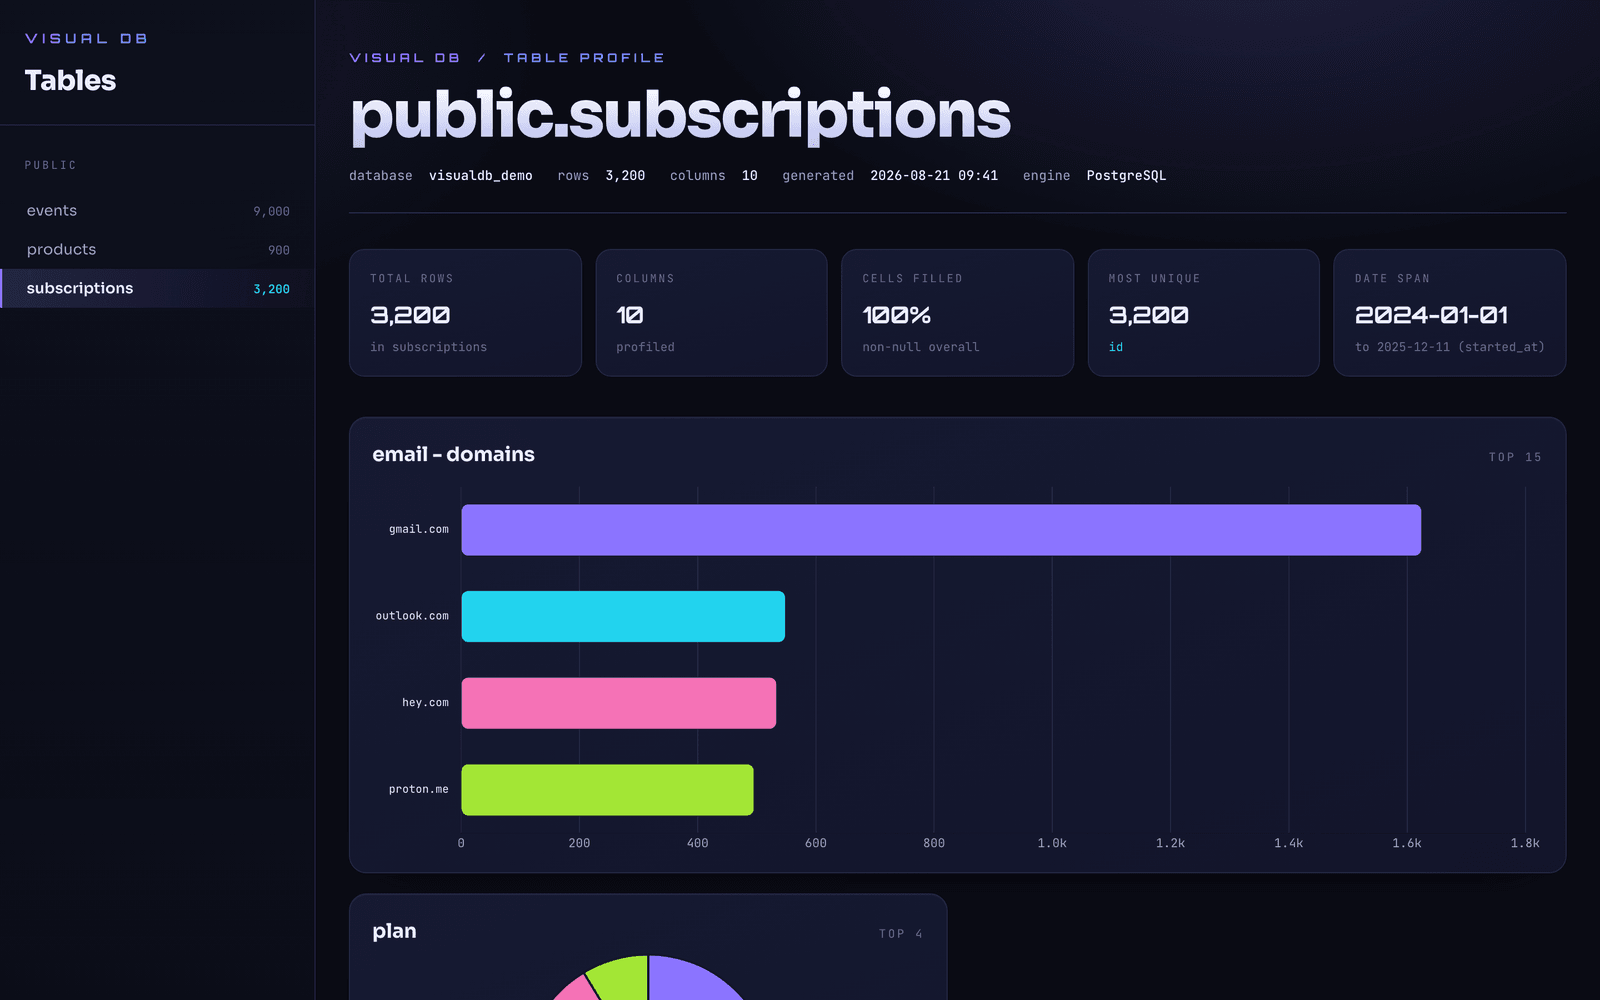
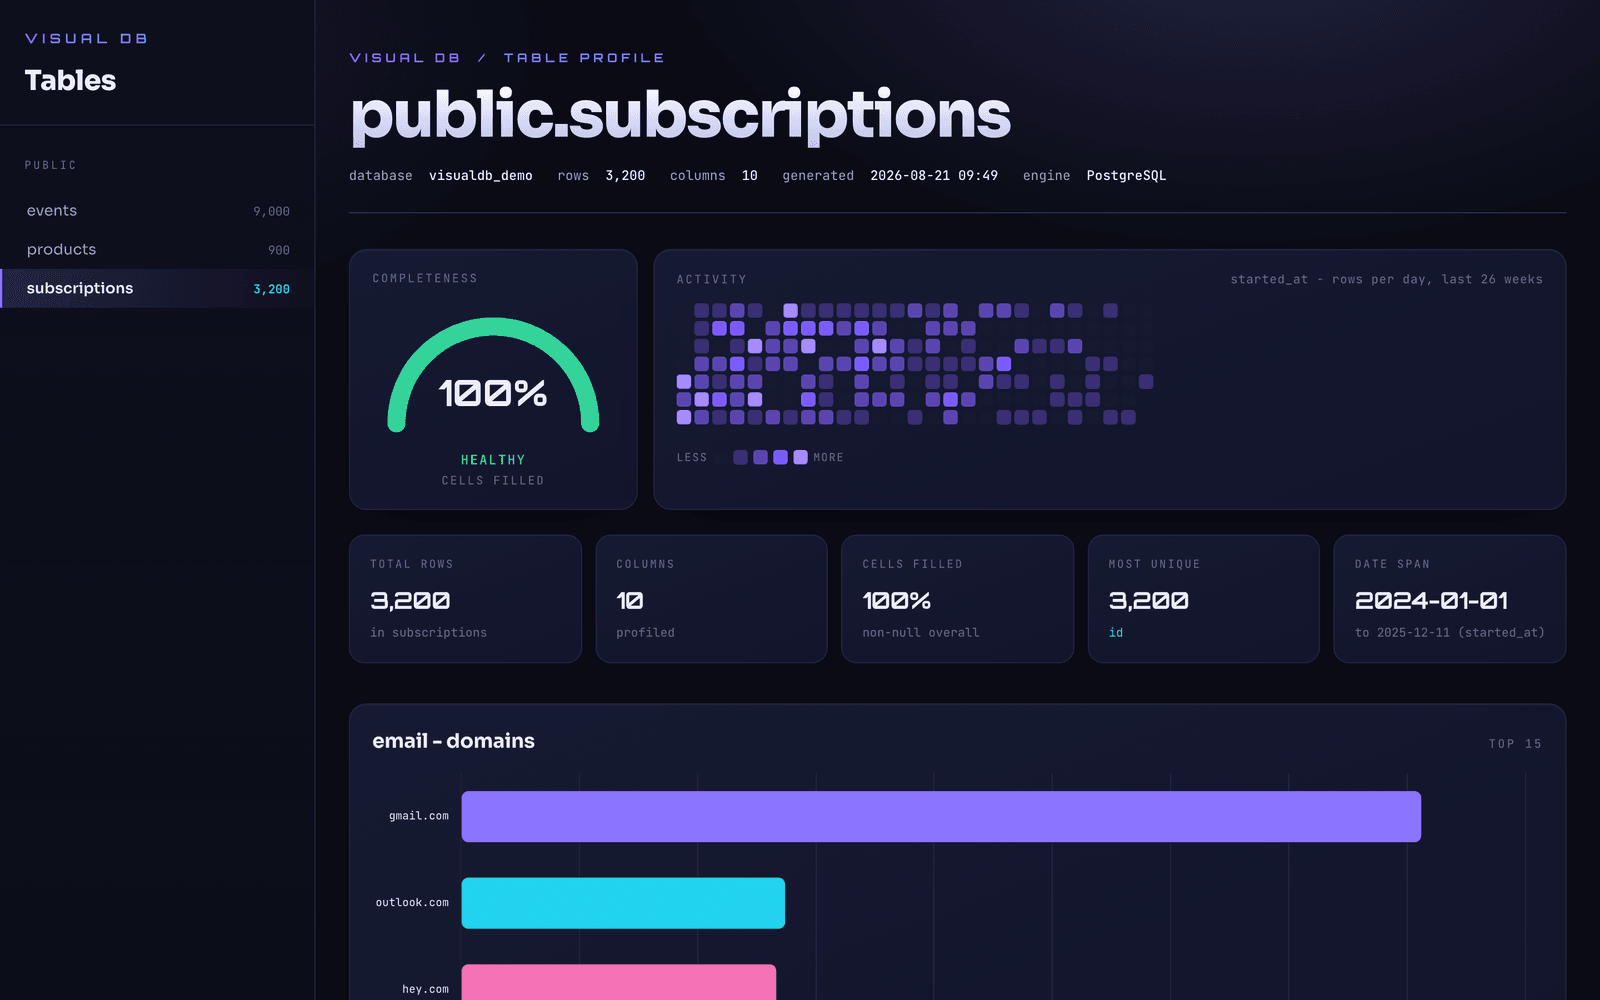
docs: refresh README demo with enriched dashboard (gauge + heatmap hero)

Changed region(s): [[0.2188, 0.248, 1.0, 1.0], [0.25, 0.961, 0.5, 1.0]]

diff --git a/README.md b/README.md
@@ -9,13 +9,13 @@ dbchart public.visits --url "postgres://user:pass@host:5432/mydb"
 
 ## Demo
 
-The screenshots below show Visual DB profiling a **synthetic demo database** (generated fake data - no real records). Click any table in the sidebar and the full dashboard renders instantly.
+The screenshots below show Visual DB profiling a **synthetic demo database** (generated fake data - no real records). Click any table in the sidebar and the full dashboard renders instantly - a completeness gauge, a calendar activity heatmap, category doughnuts, distribution histograms, a trend line, and a per-column quality table.
 
-![Visual DB profiling a products table - category and price distribution](docs/screenshots/products.png)
+![Visual DB - full table dashboard with completeness gauge, activity heatmap, and charts](docs/screenshots/dashboard.png)
 
 |  |  |
 | --- | --- |
-| ![Event profile with category doughnuts](docs/screenshots/events.png) | ![Subscription profile with domains and plan mix](docs/screenshots/subscriptions.png) |
+| ![Product profile - category and price distribution](docs/screenshots/products.png) | ![Subscription profile - domains, plan mix, and activity](docs/screenshots/subscriptions.png) |
 
 ## Why
 
